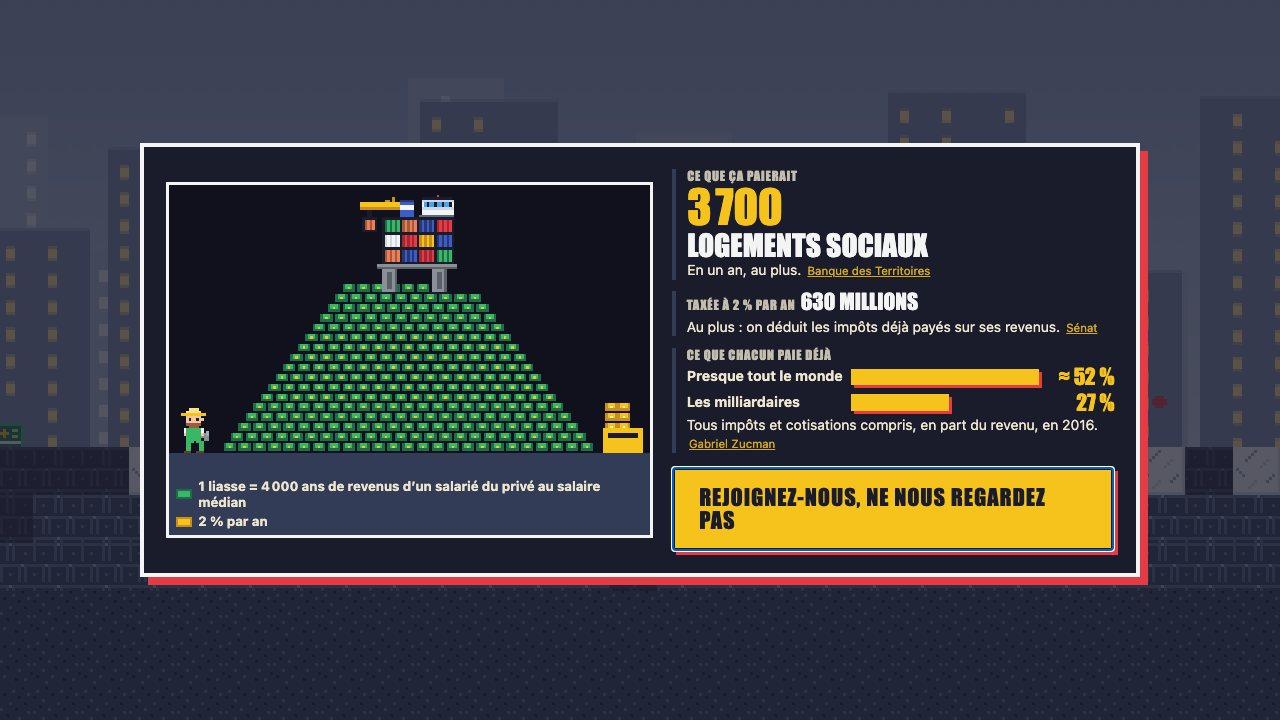
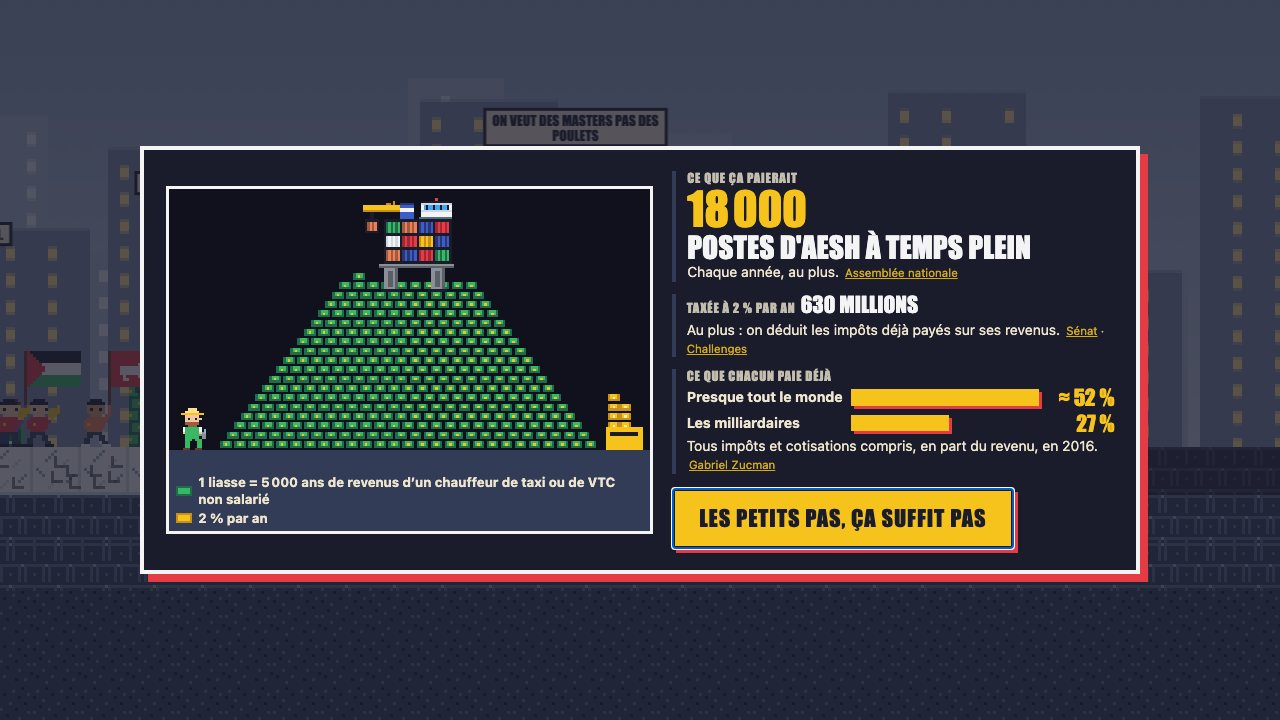
fix: après la taxe, les 2 % citent encore la source de la fortune
La fortune s'efface du récit après « Taxer les riches », mais les 2 % et ce
qu'ils paieraient en découlent : la source de son estimation passe dans
l'étape « Taxée à 2 % par an », y compris quand elle devient le titre faute
d'exemple tiré. La capture du README est refaite.

Changed region(s): [[0.0, 0.1528, 1.0, 0.825], [0.0, 0.3056, 0.0312, 0.3361]]

diff --git a/src/client/tax.js b/src/client/tax.js
@@ -228,9 +228,10 @@ export function showTaxScene(root, bundle, boss, { audio = null, hero = null, pi
     const first = step('fortune', `La fortune ${de(owner)}`, h('p', { className: 'montant' }, `${billions(boss.fortune.montant)} d’euros`),
       [`${round(years)} ans de revenus ${de(scale.compare)}.`, yearly > 0 && ` Rien qu’en dividendes, elle rapporte ${money(yearly)} par an.`],
       [estimate, scale, ...(yearly > 0 ? rent : [])]);
-    // Taxée à 2 % : au plus, puisque l'impôt est différentiel. « Moins que ses dividendes » garde les sources des dividendes.
+    // Taxée à 2 % : au plus, puisque l'impôt est différentiel. La fortune s'efface du récit, mais ce nombre en découle :
+    // il garde la source de son estimation, et « Moins que ses dividendes » celles des dividendes.
     const second = step('impot', 'Taxée à 2 % par an', h('p', { className: 'nombre' }, money(tax)),
-      [`Au plus : on déduit les impôts déjà payés sur ses revenus.`, under && ' Moins que ses dividendes.'], [rule, ...(under ? rent : [])]);
+      [`Au plus : on déduit les impôts déjà payés sur ses revenus.`, under && ' Moins que ses dividendes.'], [rule, estimate, ...(under ? rent : [])]);
     // Ce que ça paierait : le titre, après la taxe.
     const result = use ? `${round(count)} ${use.finance}` : `Au plus ${money(tax)} par an`;
     const third = use && step('paie', 'Ce que ça paierait', h('p', { className: 'nombre' }, h('b', {}, round(count)), ` ${use.finance}`),
